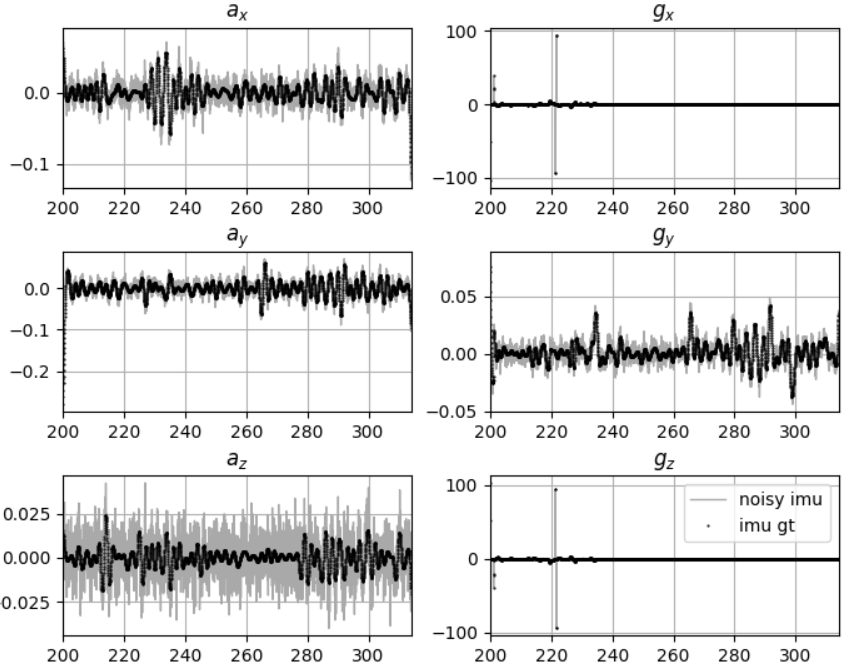
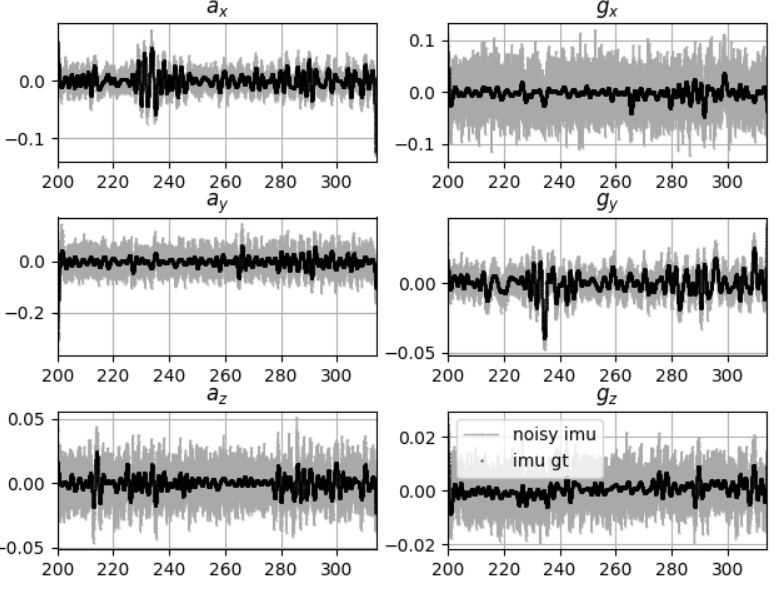
adjusted imu freq, imu noise

diff --git a/generate_data.py b/generate_data.py
@@ -3,8 +3,8 @@ from Filter import VisualTraj, ImuTraj
 """ Generates visual trajectory data as well as fake IMU data """
 
 max_vals = None
-num_imu_between_frames = 10
-imu_covariance = [0.01, 0.01, 0.01, 0.07, 0.005, 0.1]
+num_imu_between_frames = 100
+imu_covariance = [0.01, 0.03, 0.01, 0.03, 0.005, 0.005]
 
 # SLAM data
 stereoGT_traj = VisualTraj("stereoGT",
